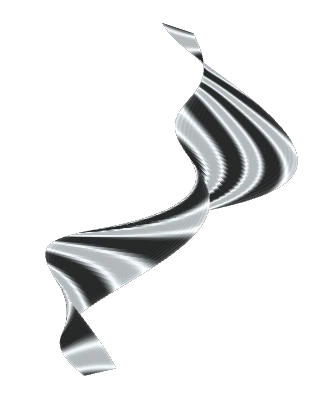
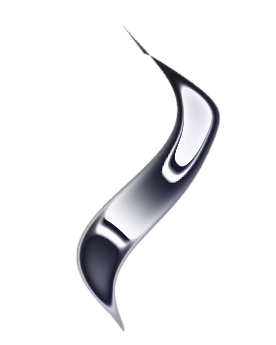
feat(chat): recast the ribbon with continuous liquid metal

Changed region(s): [[0.1449, 0.058, 0.9275, 0.9565], [0.4928, 0.1159, 0.5217, 0.1449], [0.4638, 0.087, 0.4928, 0.1159]]

diff --git a/frontend/src/components/Chat/ConversationRibbon.tsx b/frontend/src/components/Chat/ConversationRibbon.tsx
@@ -1,6 +1,9 @@
 import { memo, useEffect, useRef } from "react";
 import etchedEdge from "./etch.webp";
+import compactEdge from "./etch-compact.webp";
 import poster from "./ribbon.webp";
+import mask from "./ribbon-texture.png";
+import type { ShaderMount } from "@paper-design/shaders";
 import water from "../Cover/art/silver.webp";
 
 export interface RibbonSend {
@@ -8,37 +11,28 @@ export interface RibbonSend {
   river?: DOMRect;
 }
 type Stage = "waiting" | "writing" | "settled" | "stopped";
-type Player = ReturnType<typeof import("./ribbonRenderer").mountRibbon>;
 
-export const ConversationRibbon = memo(function ConversationRibbon({ send, stage, graphite, live }: {
-  send: RibbonSend | null; stage: Stage; graphite: boolean; live: boolean;
+export const ConversationRibbon = memo(function ConversationRibbon({ send, stage, live }: {
+  send: RibbonSend | null; stage: Stage; live: boolean;
 }) {
   const host = useRef<HTMLDivElement>(null);
-  const player = useRef<Player>(undefined);
-  const dark = useRef(graphite);
-  const sweep = useRef({ start: 0, distance: 0, duration: 0 });
+  const player = useRef<ShaderMount | undefined>(undefined);
+  const flowSpeed = stage === "waiting" ? .4 : stage === "writing" ? .3 : .23;
+  const speed = useRef(flowSpeed);
   useEffect(() => {
-    dark.current = graphite;
-    player.current?.theme(graphite);
-  }, [graphite]);
-  useEffect(() => {
-    const now = performance.now();
-    const recentSend = send && now - send.at < 900;
-    const duration = stage === "waiting" ? 820 : 460;
-    const distance = !send || stage === "stopped" ? 0 : stage === "writing" ? .48 : recentSend ? 1.4 : 0;
-    sweep.current = { start: now, distance, duration };
-    player.current?.stop();
-    if (distance && !document.hidden) player.current?.sweep(distance, duration);
-  }, [send, stage]);
+    speed.current = flowSpeed;
+    player.current?.setSpeed(flowSpeed);
+  }, [flowSpeed]);
   useEffect(() => {
     const element = host.current;
     if (!element || !live || !window.matchMedia || !window.IntersectionObserver) return;
     const media = matchMedia("(prefers-reduced-motion: no-preference) and (forced-colors: none)");
     let visible = false, disposed = false, pending = false, failed = false;
     const container = element;
+    const active = () => !disposed && visible && media.matches && !document.hidden;
     function onContextLost() { failed = true; clear(); }
     function clear() {
-      container.firstChild?.removeEventListener("webglcontextlost", onContextLost);
+      player.current?.canvasElement.removeEventListener("webglcontextlost", onContextLost);
       player.current?.dispose();
       player.current = undefined;
       container.replaceChildren();
@@ -47,29 +41,23 @@ export const ConversationRibbon = memo(function ConversationRibbon({ send, stage
       if (!media.matches || !visible || document.hidden) { clear(); return; }
       if (pending || failed || player.current) return;
       pending = true;
-      void import("./ribbonRenderer").then(({ mountRibbon }) => {
-        if (disposed || !media.matches || !visible || document.hidden) return;
-        const canvas = document.createElement("canvas");
-        player.current = mountRibbon(canvas);
-        if (!player.current) { failed = true; return; }
-        container.append(canvas);
-        canvas.addEventListener("webglcontextlost", onContextLost, { once: true });
-        player.current.theme(dark.current);
-        const { start, distance, duration } = sweep.current;
-        const remaining = duration - (performance.now() - start);
-        if (remaining > 0 && distance) player.current.sweep(distance * remaining / duration, remaining);
-      }).catch(() => { failed = true; }).finally(() => { pending = false; });
+      void import("../Cover/liquidRiver").then(async ({ mountLiquidMetal }) => {
+        if (!active()) return;
+        const mount = await mountLiquidMetal(container, mask, active);
+        if (!mount) return;
+        if (!active()) { mount.dispose(); return; }
+        player.current = mount;
+        mount.canvasElement.addEventListener("webglcontextlost", onContextLost, { once: true });
+        mount.setSpeed(speed.current);
+      }).catch(() => { failed = true; if (!disposed) clear(); }).finally(() => { pending = false; });
     }
     const observer = new IntersectionObserver(([entry]) => { visible = Boolean(entry?.isIntersecting); sync(); });
     observer.observe(element);
-    const resize = new ResizeObserver(() => player.current?.theme(dark.current));
-    resize.observe(element);
     media.addEventListener("change", sync);
     document.addEventListener("visibilitychange", sync);
     return () => {
       disposed = true;
       observer.disconnect();
-      resize.disconnect();
       media.removeEventListener("change", sync);
       document.removeEventListener("visibilitychange", sync);
       clear();
@@ -95,6 +83,9 @@ export const ConversationRibbon = memo(function ConversationRibbon({ send, stage
   }, [send, live]);
   return <div className="conversation-ribbon" aria-hidden="true">
     <div className="ribbon-surface" ref={host} style={{ backgroundImage: `url(${poster})` }} />
-    <img src={etchedEdge} alt="" width="320" height="400" />
+    <picture>
+      <source media="(max-width: 700px)" srcSet={compactEdge} />
+      <img src={etchedEdge} alt="" width="720" height="900" />
+    </picture>
   </div>;
 });

diff --git a/frontend/src/App.tsx b/frontend/src/App.tsx
@@ -237,7 +237,7 @@ function Portfolio() {
         <div className={`portfolio-opening ${isCoverState ? "portfolio-cover" : "portfolio-conversation"}`}>
           <div className="portfolio-measure portfolio-opening-inner">
             {isCoverState && <CoverState headingRef={headingRef} company={company} />}
-            {!isCoverState && <ConversationRibbon send={ribbonSend} stage={stage} graphite={resolvedTheme === "dark"} live={preferences.artwork === "metal"} />}
+            {!isCoverState && <ConversationRibbon send={ribbonSend} stage={stage} live={preferences.artwork === "metal"} />}
             <section
               ref={assistantRef}
               className="portfolio-assistant"
@@ -364,11 +364,11 @@ function Portfolio() {
       {panel && <SidePanel title={selectedProject?.title ?? (panel === "preferences" ? "Preferences" : "Project index")} onClose={closePanel}>
         {panel === "preferences" ? <div className="art-settings">
           <label>Interaction sounds<input type="checkbox" checked={preferences.sound} onChange={e => set("sound", e.target.checked)} /></label>
-          <label>Landscape<select value={preferences.artwork} onChange={e => {
+          <label>Artwork<select value={preferences.artwork} onChange={e => {
             const value = e.currentTarget.value;
             if (value === "metal" || value === "reflection" || value === "still") set("artwork", value);
           }}>
-            <option value="metal">Liquid metal river</option><option value="reflection">Still river reflection</option><option value="still">Still landscape</option>
+            <option value="metal">Flowing liquid metal</option><option value="reflection">Still metal</option><option value="still">Still artwork</option>
           </select></label>
         </div> : <>
           {selectedProject && <button className="text-action" onClick={() => setPanel("index")}>Back to project index</button>}

diff --git a/frontend/src/components/Cover/liquidRiver.ts b/frontend/src/components/Cover/liquidRiver.ts
@@ -2,11 +2,15 @@ import { liquidMetalFragmentShader, ShaderMount } from "@paper-design/shaders";
 import texture from "./art/river-texture.png";
 
 export async function mountRiver(host: HTMLElement, current: () => boolean) {
+  return mountLiquidMetal(host, texture, current);
+}
+
+export async function mountLiquidMetal(host: HTMLElement, mask: string, current: () => boolean) {
   const image = new Image();
-  image.src = texture;
+  image.src = mask;
   await image.decode();
   if (!current()) return;
-  // The mask has already been processed with Paper's image tool, offline.
+  // Each silhouette carries the edge field baked by Paper's image processor.
   const mount = new ShaderMount(host, liquidMetalFragmentShader, {
     u_image: image, u_isImage: true, u_shape: 0, u_colorBack: [0, 0, 0, 0],
     u_colorTint: [1, 1, 1, 0], u_repetition: 2.5, u_shiftRed: 0, u_shiftBlue: 0,

diff --git a/frontend/src/styles/portfolio.css b/frontend/src/styles/portfolio.css
@@ -187,7 +187,7 @@ body:has(.portfolio-panel[open]) { overflow: hidden; }
 }
 .conversation-ribbon { position: sticky; top: 2rem; align-self: start; margin-top: 2.6rem; width: 100%; aspect-ratio: 4 / 5; pointer-events: none; }
 .ribbon-surface, .conversation-ribbon img, .ribbon-surface canvas { position: absolute; inset: 0; width: 100%; height: 100%; }
-.ribbon-surface { background-size: contain; background-repeat: no-repeat; }
+.ribbon-surface { background-size: contain; background-repeat: no-repeat; filter: grayscale(1); }
 .ribbon-surface:has(canvas) { background-size: 0; }
 .conversation-ribbon img { filter: invert(var(--relief-invert,0)); }
 .river-handoff { position: fixed; pointer-events: none; z-index: 2; transform-origin: top left; }

diff --git a/docs/decisions.md b/docs/decisions.md
@@ -3,6 +3,17 @@
 Each record captures a decision with context, options, choice, and reasoning.
 Format: `### DRN-XXX: Title`
 
+### DRN-092: Use the river shader for continuous chat flow
+
+The owner’s rendered review identified an unreadable etched edge and banded
+highlights on the folded ribbon. Both faces now follow a new silhouette. The
+left face uses a high-contrast glyph engraving, with a coarser cut for phones.
+The right uses a separately baked mask in the homepage river’s Paper Liquid
+Metal renderer. Both surfaces share the shader parameters and idle speed.
+Chat increases the speed while waiting and writing, and returns to continuous
+idle flow when an answer finishes, including saved answers. The artwork setting,
+reduced motion, and WebGL fallback use a still frame sampled from this mask.
+
 ### DRN-091: Carry the river material into a readable conversation
 
 The chat uses the approved study's WebGL ribbon and an ASCII engraving. Each

diff --git a/docs/PROGRESS.md b/docs/PROGRESS.md
@@ -18,6 +18,10 @@ the [study guide](study-guides/silver-assistant.md).
 - The control refinement moved role fit below the question field, distinguished
   recovery buttons from destination links, and added a silver Send control.
   Landscape preferences include a fully still option and retain older choices.
+- The revised ribbon uses the same Paper shader as the river, with continuous
+  flow and a larger ASCII engraving ([DRN-092](decisions.md)). Chrome verified
+  ongoing motion after a saved answer at 1207, 390 and 320 px, both color themes,
+  the still option, reduced motion, and fallback with WebGL unavailable.
 - The conversation includes the WebGL ribbon, still and reduced-motion treatments,
   question headings, and opt-in interaction audio ([DRN-091](decisions.md)).
   Chrome replayed two turns with zero final-line displacement at 375 and 1440 px.
